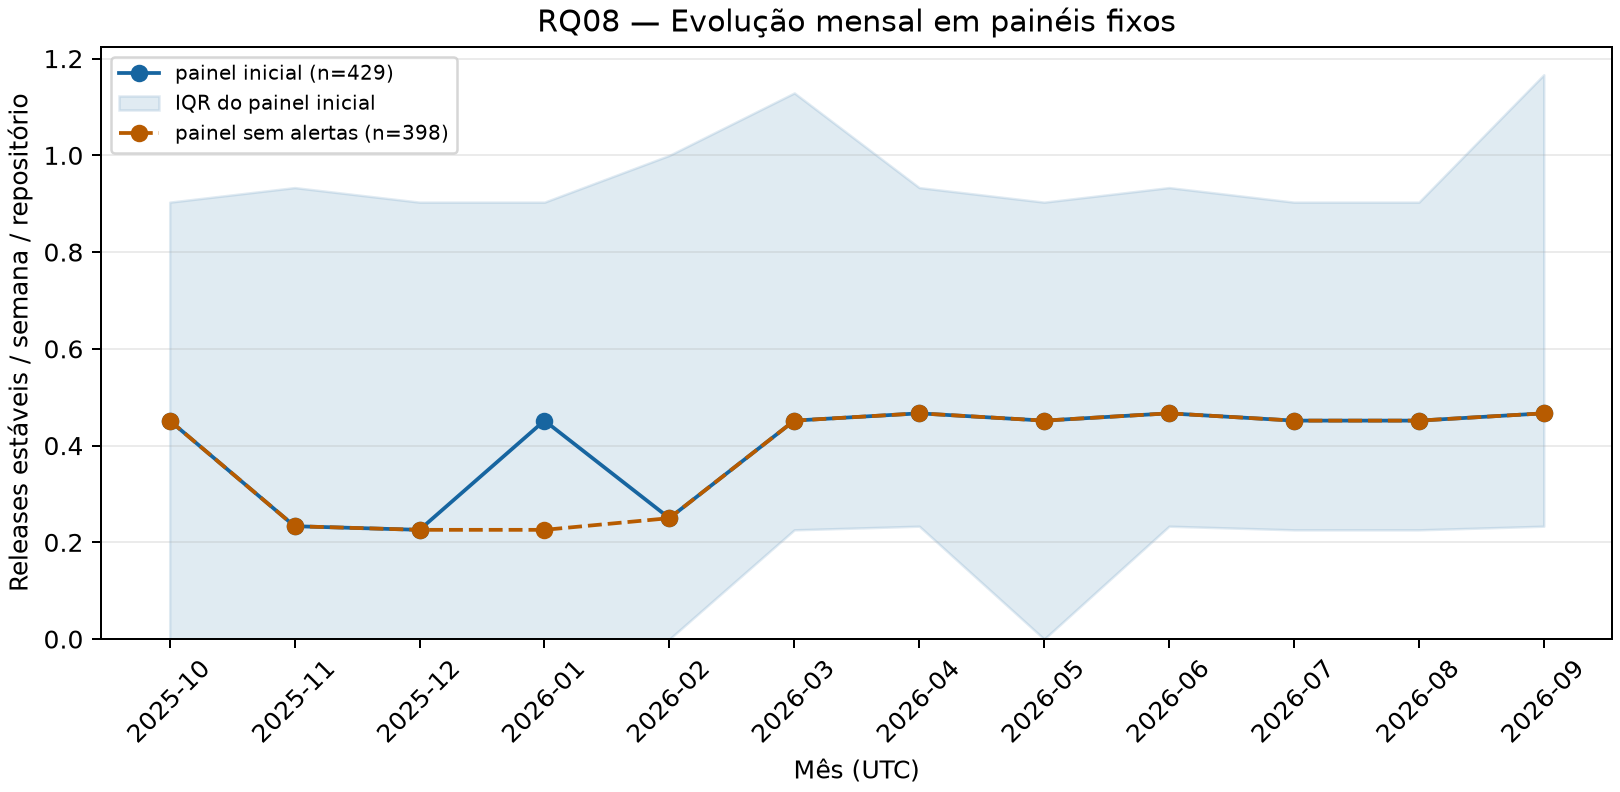
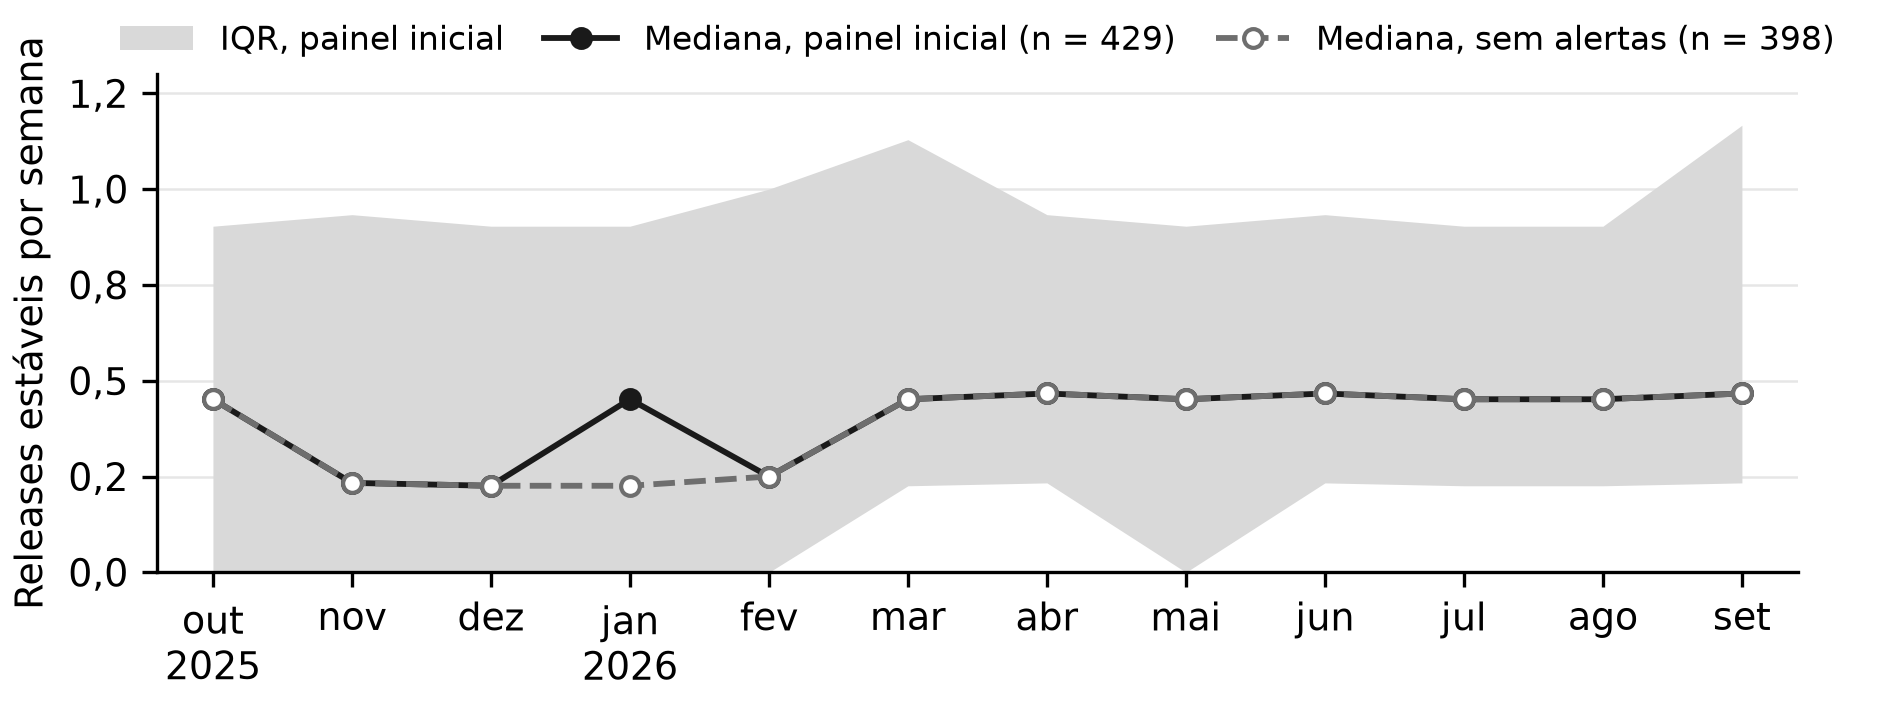
docs(lab03): recoloca a figura da RQ08 e padroniza as figuras das RQ05 e RQ08 (#186)

diff --git a/Lab03/pipeline/correlacao_rq05.py b/Lab03/pipeline/correlacao_rq05.py
@@ -134,24 +134,31 @@ def grafico_dispersao(pares, resumo):
     """Dois painéis com os mesmos pares da análise principal; CFR zero preservada."""
     import matplotlib.pyplot as plt
 
-    fig, eixos = plt.subplots(1, 2, figsize=(9, 3.7), sharey=True, layout="constrained")
-    principais = pares.loc[pares["recorte"] == "principal"]
-    for ax, variante in zip(eixos, ("a", "b")):
-        p = principais.loc[principais["variante"] == variante]
-        r = resumo.loc[(resumo["recorte"] == "principal") & (resumo["variante"] == variante)].iloc[0]
-        ax.scatter(p["deployment_frequency"], p["cfr"], s=15, color="#333333", alpha=0.5, edgecolors="none")
-        # O CSV atual tem DF > 0. Em outra execução, symlog mantém zeros visíveis.
-        escala = "log" if not p.empty and p["deployment_frequency"].gt(0).all() else "symlog"
-        ax.set_xscale(escala, **({"linthresh": 0.1} if escala == "symlog" else {}))
-        ax.set_ylim(-0.035, 1.035)
-        ax.set_xlabel(f"Frequência de deploy (releases/semana, {escala})")
-        ax.set_title(f"CFR ({variante}) — {'runs' if variante == 'a' else 'releases corretivas'}")
-        texto = (f"ρ = {r['rho']:.3f}\np = {r['p_valor']:.3g}\nn = {int(r['n'])}"
-                 if pd.notna(r["rho"]) else f"Não estimável\nn = {int(r['n'])}")
-        ax.text(0.04, 0.96, texto, transform=ax.transAxes, va="top", fontsize=9,
-                bbox={"facecolor": "white", "alpha": 0.9, "edgecolor": "none"})
-        ax.grid(True, color="#dddddd", linewidth=0.5)
-        ax.set_axisbelow(True)
-        ax.spines[["top", "right"]].set_visible(False)
-    eixos[0].set_ylabel("Taxa de falha de mudanças (fração)")
+    # Formato de artigo: largura de texto do SBC, fonte de 9 pt e vírgula decimal.
+    with plt.rc_context({"font.size": 9}):
+        fig, eixos = plt.subplots(1, 2, figsize=(6.3, 2.6), sharey=True, layout="constrained")
+        principais = pares.loc[pares["recorte"] == "principal"]
+        for ax, variante in zip(eixos, ("a", "b")):
+            p = principais.loc[principais["variante"] == variante]
+            r = resumo.loc[(resumo["recorte"] == "principal") & (resumo["variante"] == variante)].iloc[0]
+            ax.scatter(p["deployment_frequency"], p["cfr"], s=7, color="#333333", alpha=0.45, edgecolors="none")
+            # O CSV atual tem DF > 0. Em outra execução, symlog mantém zeros visíveis.
+            escala = "log" if not p.empty and p["deployment_frequency"].gt(0).all() else "symlog"
+            ax.set_xscale(escala, **({"linthresh": 0.1} if escala == "symlog" else {}))
+            ax.set_ylim(-0.035, 1.035)
+            ax.yaxis.set_major_formatter(lambda v, _: f"{v:.1f}".replace(".", ","))
+            ax.set_xlabel("Releases estáveis por semana" + (" (log)" if escala == "log" else " (symlog)"))
+            ax.set_title(f"({variante}) {'falhas de CI' if variante == 'a' else 'releases corretivas'}",
+                         fontsize=9, loc="left")
+            if pd.notna(r["rho"]):
+                valor_p = "p < 0,001" if r["p_valor"] < 0.001 else f"p = {r['p_valor']:.3f}".replace(".", ",")
+                texto = f"ρ = {r['rho']:.3f}".replace(".", ",") + f"\n{valor_p}\nn = {int(r['n'])}"
+            else:
+                texto = f"Não estimável\nn = {int(r['n'])}"
+            ax.text(0.04, 0.96, texto, transform=ax.transAxes, va="top", fontsize=8,
+                    bbox={"facecolor": "white", "alpha": 0.9, "edgecolor": "none", "pad": 1.5})
+            ax.grid(True, color="#e6e6e6", linewidth=0.5)
+            ax.set_axisbelow(True)
+            ax.spines[["top", "right"]].set_visible(False)
+        eixos[0].set_ylabel("CFR (fração)")
     return fig

diff --git a/Lab03/pipeline/evolucao_temporal.py b/Lab03/pipeline/evolucao_temporal.py
@@ -247,25 +247,41 @@ def executar(eventos=EVENTOS, dataset=DATASET, saida=None):
     return painel, mensal, semestres, resumo
 
 
+MESES_PT = ('jan', 'fev', 'mar', 'abr', 'mai', 'jun', 'jul', 'ago', 'set', 'out', 'nov', 'dez')
+
+
 def figura(mensal, destino):
+    # Formato de artigo: largura de texto do SBC, tons de cinza como as demais
+    # figuras, sem título interno (a legenda do LaTeX descreve a figura).
     import matplotlib.pyplot as plt
-    fig, ax = plt.subplots(figsize=(9, 4.4), layout='constrained')
-    for coorte, cor, estilo in zip(COORTES, ('#1765a0', '#b75b00'), ('-', '--')):
-        d = mensal[mensal['coorte'] == coorte]
-        x = list(range(len(d)))
-        ax.plot(x, d['mediana'].astype(float), estilo, marker='o', color=cor,
-                label=f"{coorte.replace('_', ' ')} (n={int(d['n'].iloc[0])})")
-        if coorte == 'painel_inicial':
-            ax.fill_between(x, d['q1'].astype(float), d['q3'].astype(float), color=cor, alpha=.13, label='IQR do painel inicial')
-    ax.set(xticks=x, xticklabels=d['mes'], ylabel='Releases estáveis / semana / repositório', xlabel='Mês (UTC)',
-           title='RQ08 — Evolução mensal em painéis fixos')
-    ax.tick_params(axis='x', rotation=45)
-    ax.set_ylim(bottom=0)
-    ax.grid(axis='y', alpha=.25)
-    ax.legend(fontsize=8)
-    destino = Path(destino)
-    destino.parent.mkdir(parents=True, exist_ok=True)
-    fig.savefig(destino, dpi=180)
+    with plt.rc_context({'font.size': 9, 'axes.spines.top': False, 'axes.spines.right': False}):
+        fig, ax = plt.subplots(figsize=(6.3, 2.35), layout='constrained')
+        inicial = mensal[mensal['coorte'] == COORTES[0]]
+        x = list(range(len(inicial)))
+        ax.fill_between(x, inicial['q1'].astype(float), inicial['q3'].astype(float), color='#d9d9d9',
+                        linewidth=0, label='IQR, painel inicial')
+        estilos = {COORTES[0]: dict(color='#1a1a1a', linestyle='-', marker='o', markersize=4.5),
+                   COORTES[1]: dict(color='#6e6e6e', linestyle='--', marker='o', markersize=4.5,
+                                    markerfacecolor='white')}
+        rotulos = {COORTES[0]: 'Mediana, painel inicial', COORTES[1]: 'Mediana, sem alertas'}
+        for coorte in COORTES:
+            d = mensal[mensal['coorte'] == coorte]
+            ax.plot(x, d['mediana'].astype(float), linewidth=1.4,
+                    label=f"{rotulos[coorte]} (n = {int(d['n'].iloc[0])})", **estilos[coorte])
+        meses = [dt.date.fromisoformat(f'{m}-01') for m in inicial['mes']]
+        ax.set_xticks(x, [MESES_PT[m.month - 1] + (f'\n{m.year}' if i == 0 or m.month == 1 else '')
+                          for i, m in enumerate(meses)])
+        ax.set_xlim(-0.4, len(x) - 0.6)
+        ax.set_ylim(0, 1.3)
+        ax.set_ylabel('Releases estáveis por semana')
+        ax.yaxis.set_major_formatter(lambda v, _: f'{v:.1f}'.replace('.', ','))
+        ax.grid(axis='y', color='#e6e6e6', linewidth=0.6)
+        ax.set_axisbelow(True)
+        ax.legend(loc='upper center', bbox_to_anchor=(0.5, 1.16), ncol=3, frameon=False, fontsize=8,
+                  handlelength=2.2, columnspacing=1.2)
+        destino = Path(destino)
+        destino.parent.mkdir(parents=True, exist_ok=True)
+        fig.savefig(destino, dpi=300)
     return fig
 
 

diff --git a/Lab03/artigo/resultados.tex b/Lab03/artigo/resultados.tex
@@ -165,7 +165,18 @@ Como análise exploratória, contamos as 34.255 releases estáveis por mês nos
 429 projetos existentes no início da janela. As medianas mensais variam de
 0,226 a 0,467 release por semana; do primeiro para o segundo semestre, a
 mediana passa de 0,385 para 0,421, com 228 projetos aumentando e 201
-diminuindo. É a descrição de um único ano, sem teste de tendência.
+diminuindo (Figura~\ref{fig:rq08-temporal}). As medianas oscilam entre
+valores equivalentes a uma e duas releases por mês. É a descrição de um
+único ano, sem teste de tendência.
+
+\begin{figure}[!htb]
+\centering
+\includegraphics[width=\textwidth]{rq08_evolucao_mensal.png}
+\caption{Frequência mensal de releases estáveis por repositório: mediana e IQR
+no painel de 429 projetos existentes no início da janela e mediana dos 398 sem
+alertas de qualidade; as duas medianas coincidem, exceto em janeiro de 2026}
+\label{fig:rq08-temporal}
+\end{figure}
 
 \subsection{Replicação cruzada}
 \label{sec:resultados-replicacao}

diff --git a/Lab03/artigo/validacao-fin-07-186.md b/Lab03/artigo/validacao-fin-07-186.md
@@ -12,7 +12,7 @@ MiKTeX 25.12 (pdfTeX 4.23), com a sequência `pdflatex`, `bibtex`, `pdflatex`,
 | Versão | Páginas (com referências) | Erros | Overfull |
 |---|---|---|---|
 | `main` em `5c104ed` + #259 | 25 | 0 | 0 |
-| Esta revisão | **9** | 0 | 0 |
+| Esta revisão | **10** | 0 | 0 |
 
 Todas as páginas renderizadas foram inspecionadas. O BibTeX não mostra mais
 os avisos de ano vazio em `statsmodelsFleiss` e `sklearnPrecisionRecall`.
@@ -21,9 +21,9 @@ os avisos de ano vazio em `statsmodelsFleiss` e `sklearnPrecisionRecall`.
 
 | Critério | Situação |
 |---|---|
-| Máximo de 10 páginas no template SBC | 9 páginas, contando as referências; `.sty` e `.bst` sem alteração. |
+| Máximo de 10 páginas no template SBC | 10 páginas, contando as referências; `.sty` e `.bst` sem alteração. |
 | Link do repositório e do GitHub Projects | Notas de rodapé na Seção 2.5, junto com o link do repositório do grupo replicado. |
-| Revisão de texto, figuras e referências | Texto condensado; figuras das RQ01–RQ05 mantidas, e a da RQ08 removida; anos adicionados a duas referências. |
+| Revisão de texto, figuras e referências | Texto condensado; figuras das RQ01–RQ05 e RQ08 mantidas; as das RQ05 e RQ08 refeitas em formato de artigo; anos adicionados a duas referências. |
 
 ## O que foi condensado
 
@@ -40,7 +40,7 @@ definição; todos os valores vêm do texto anterior.
   kappa no texto; métodos estatísticos em um parágrafo.
 - **Resultados**: RQ01–RQ04 em texto corrido; a tabela de 18 testes da RQ06
   virou uma matriz de ε² com marca de significância; os contrastes Q1–Q4 e a
-  RQ05 foram para o texto; as duas tabelas da RQ07 foram unidas; a figura da RQ05 foi mantida; RQ08 e
+  RQ05 foram para o texto; as duas tabelas da RQ07 foram unidas; as figuras das RQ05 e RQ08 foram mantidas; RQ08 e
   replicação viraram um parágrafo cada.
 - **Discussão**: confronto das hipóteses em um parágrafo; literatura e
   implicações juntas; as quatro ameaças em um parágrafo cada, mantendo as
@@ -58,3 +58,15 @@ definição; todos os valores vêm do texto anterior.
 
 A redação completa anterior continua no histórico Git e nos arquivos
 `validacao-*.md` de cada issue.
+
+## Figuras das RQ05 e RQ08
+
+As duas figuras foram refeitas no formato das demais: tons de cinza, largura
+do texto do SBC, fonte de 9 pt, vírgula decimal, sem título interno (a
+legenda do LaTeX descreve a figura). A RQ08 também ganhou meses em
+português. Os dados não mudaram: as figuras são geradas a partir de
+`analise/tabelas/rq05_pares.csv`, `rq05_spearman.csv` e `rq08_mensal.csv` por
+`grafico_dispersao` (`pipeline/correlacao_rq05.py`) e `figura`
+(`pipeline/evolucao_temporal.py`). Os 55 testes desses dois módulos passam.
+As saídas embutidas nos notebooks s03-04 e s03-09 mostram o estilo anterior
+até serem executados de novo.

diff --git a/Lab03/artigo/README.md b/Lab03/artigo/README.md
@@ -2,7 +2,7 @@
 
 ## Revisão final — FIN-07 (#186)
 
-O artigo foi condensado de 25 para **9 páginas** com referências (MiKTeX,
+O artigo foi condensado de 25 para **10 páginas** com referências (MiKTeX,
 zero erros e zero overfull). A versão em vigor é a dos arquivos `.tex`. As
 seções abaixo registram o histórico de cada entrega e podem citar trechos
 ou números de páginas que não existem mais. O que foi cortado, as correções
